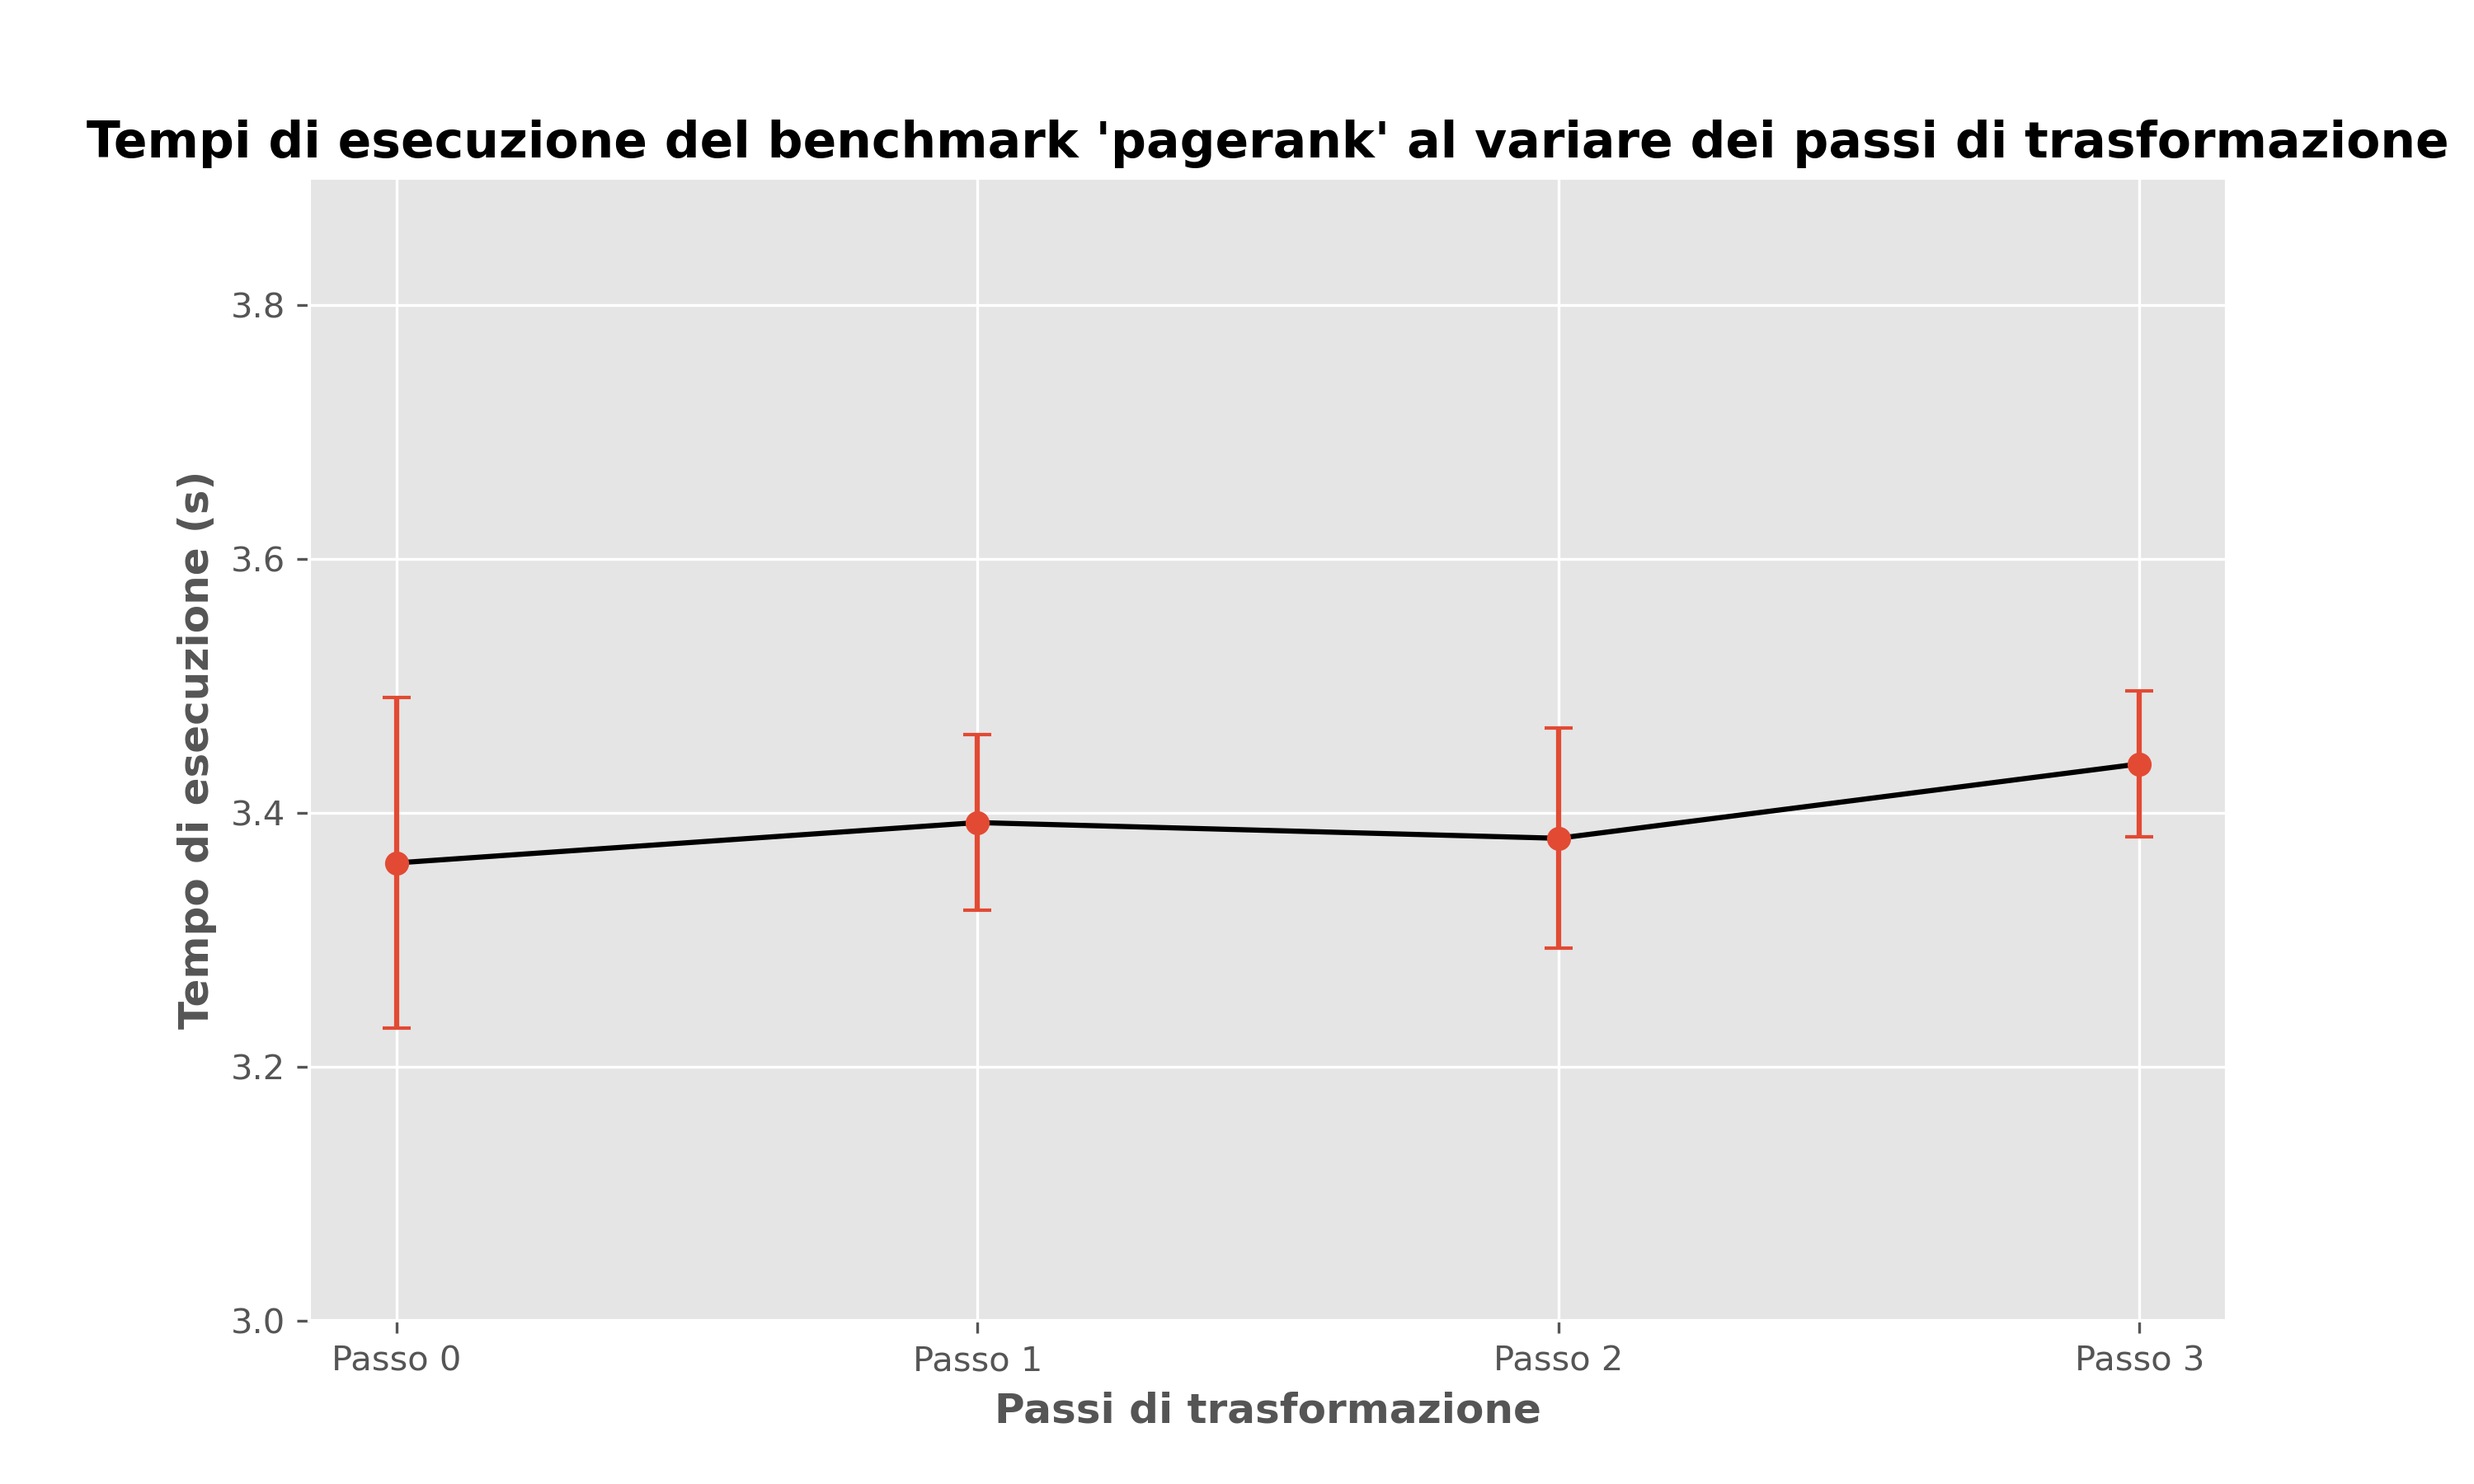
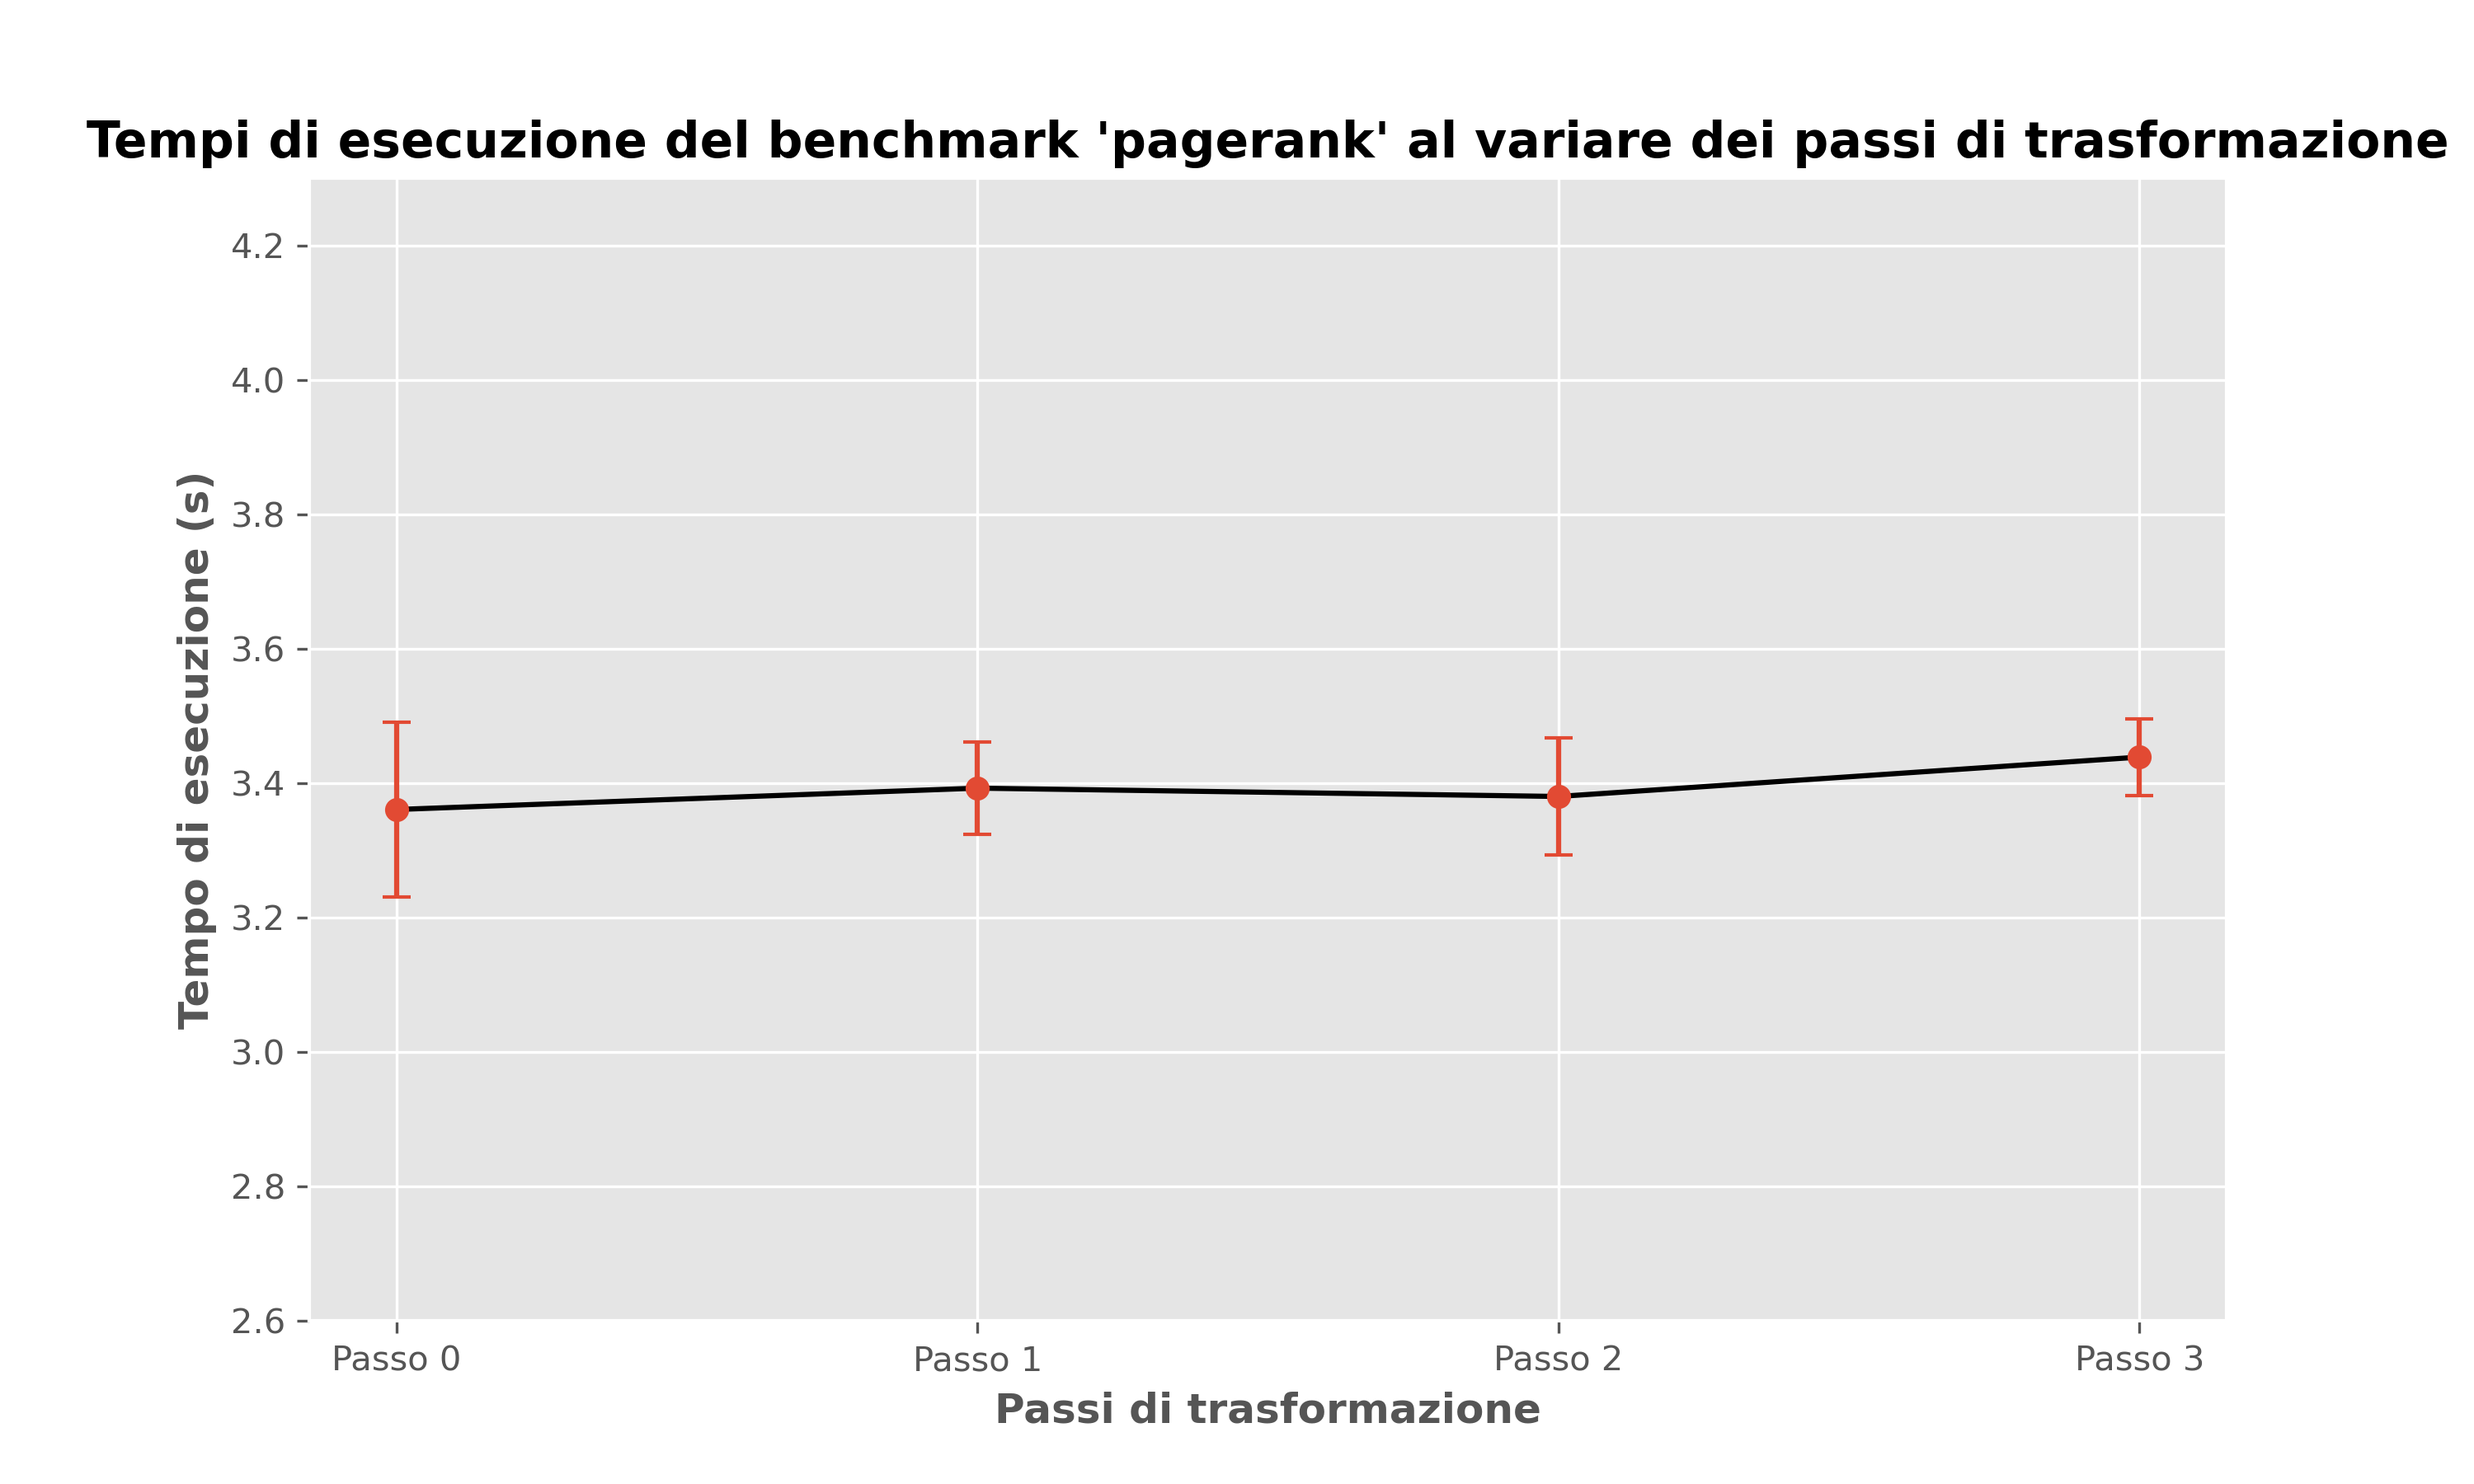
Fixed scale of benchmark plot

diff --git a/benchmark/plots.py b/benchmark/plots.py
@@ -44,7 +44,7 @@ for i, mean in enumerate(means):
                  ha='left', va='bottom', fontsize=8, bbox=dict(facecolor='white', edgecolor='black', boxstyle='square'))
 '''
 
-plt.ylim(min[0] - 0.2, max[3] + 0.2)
+plt.ylim(min[0] - 0.6, max[3] + 0.6)
 #plt.ylim(min[0] - 0.5, max[3] + 0.5)
 
 plt.savefig("pagerank.png", dpi=300)
